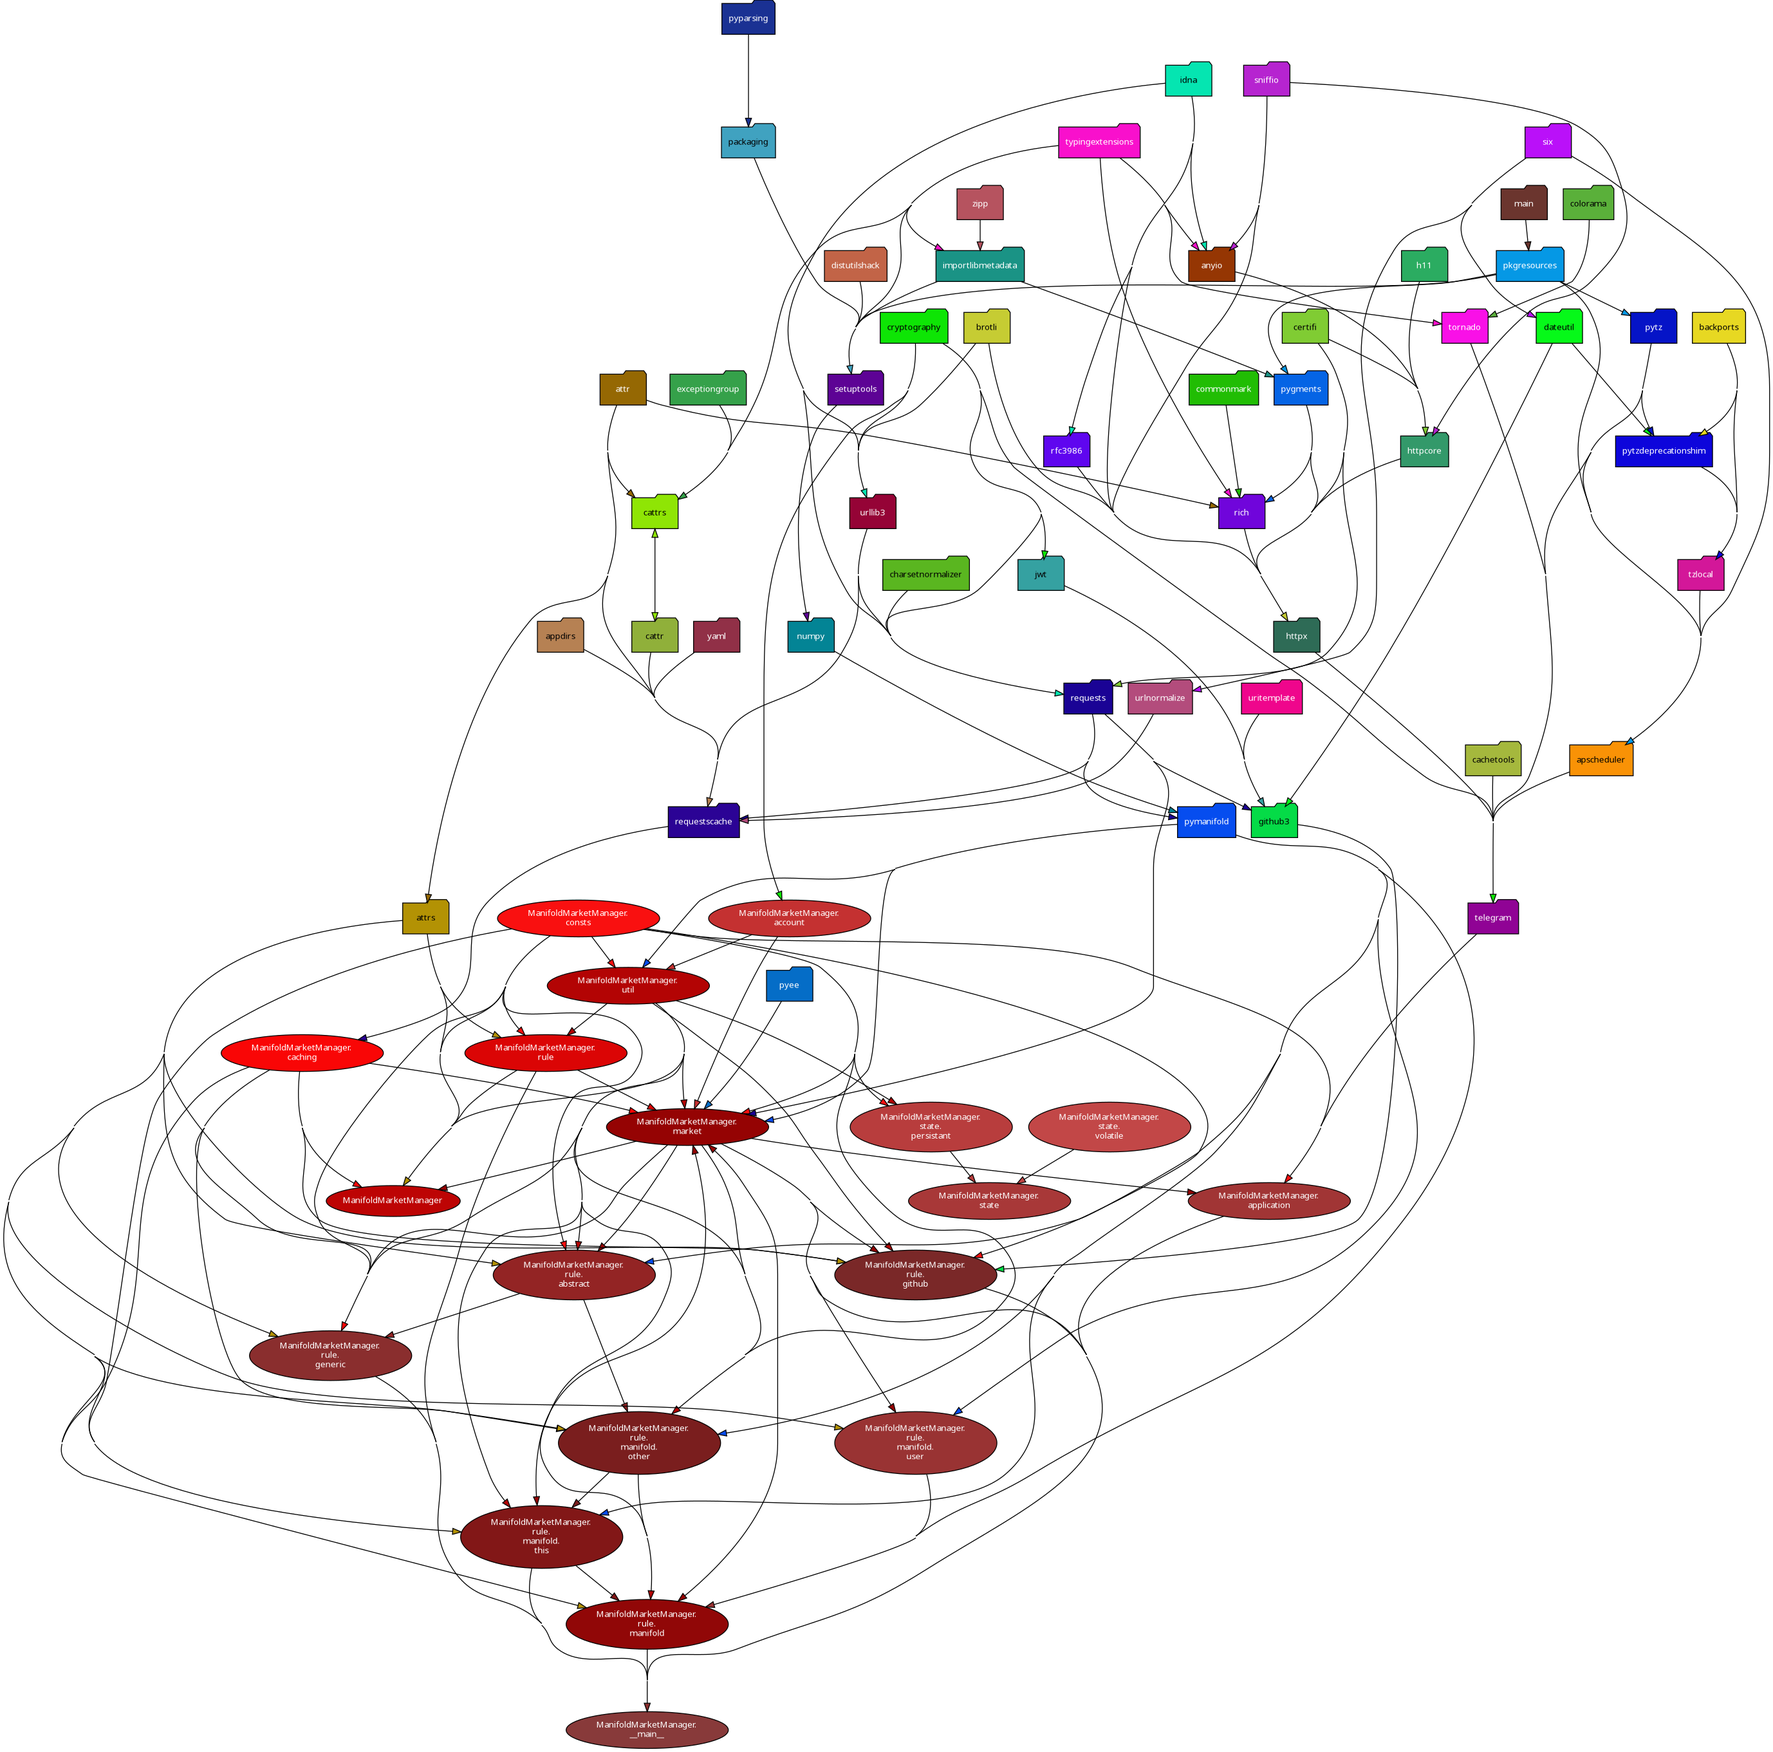
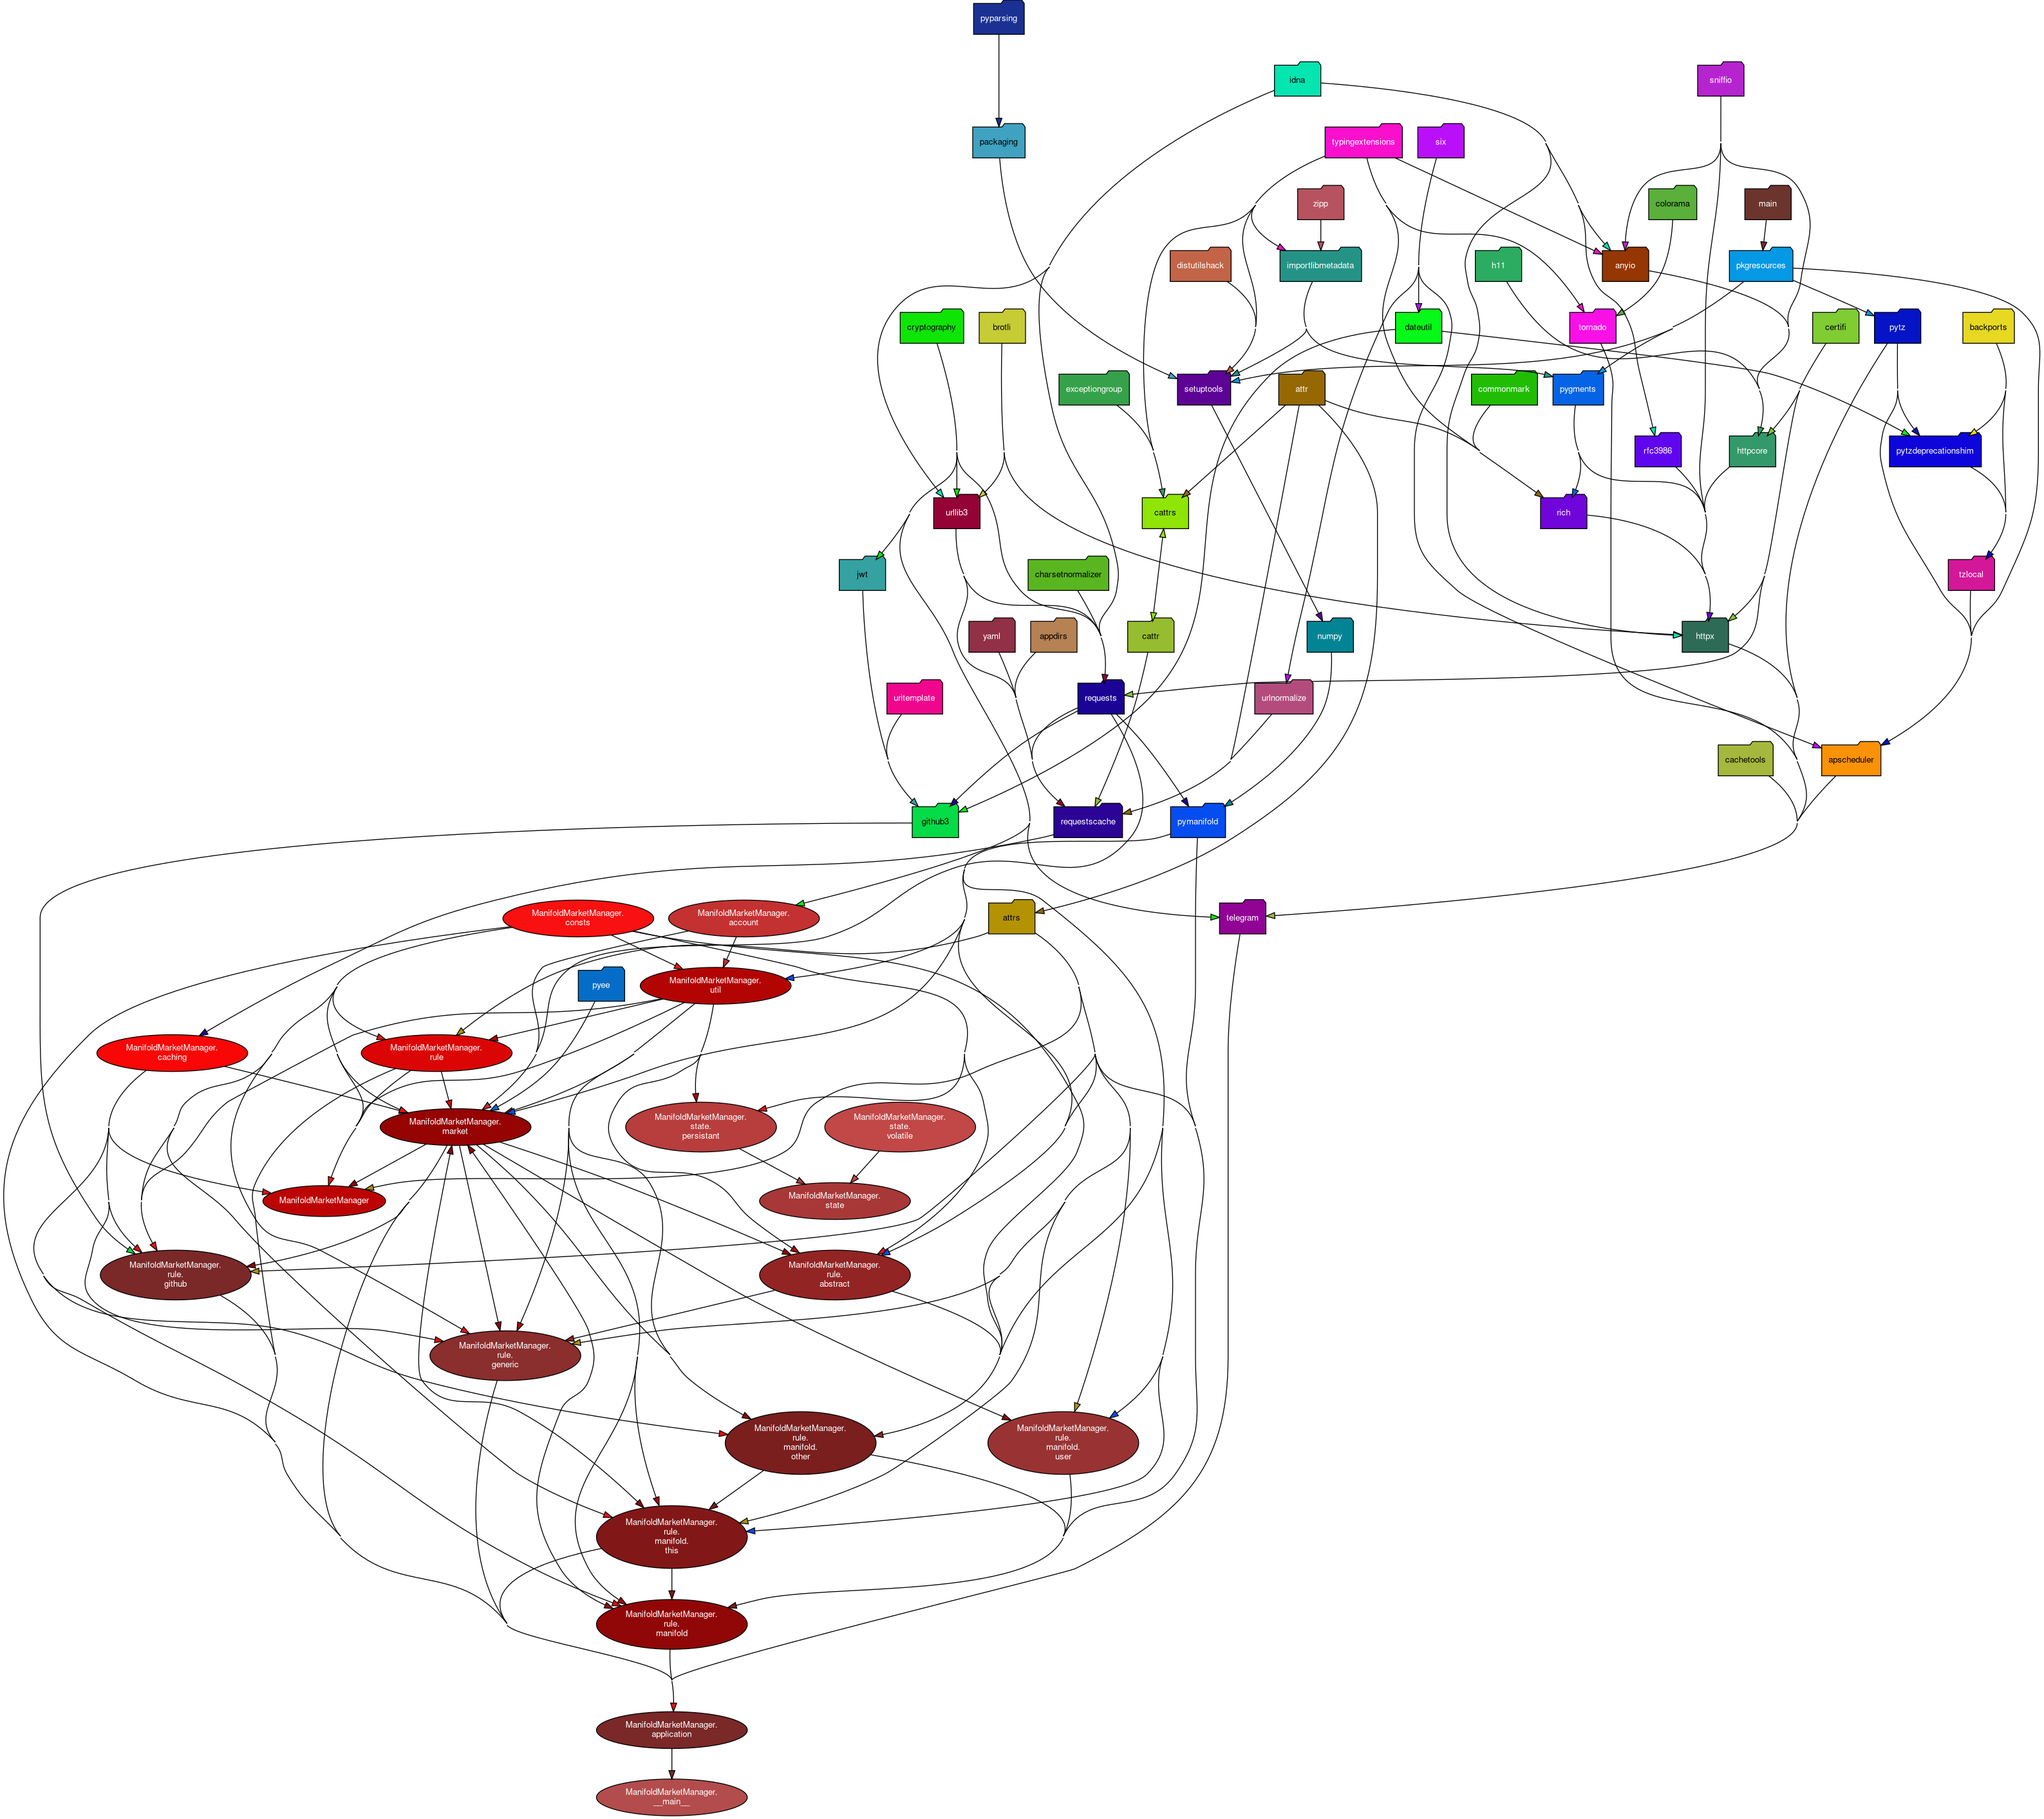
Bump version, graph

diff --git a/ManifoldMarketManager/__init__.py b/ManifoldMarketManager/__init__.py
@@ -156,7 +156,7 @@ register_converter("Rule", loads)
 register_adapter(market.Market, dumps)
 register_converter("Market", loads)
 
-VERSION = "0.7.0.2"
+VERSION = "0.8.0.0"
 __version_info__ = tuple(int(x) for x in VERSION.split('.'))
 __all__ = [
     "__version_info__", "VERSION", "DoResolveRule", "ResolutionValueRule", "Rule", "Market", "get_client", "rule",
